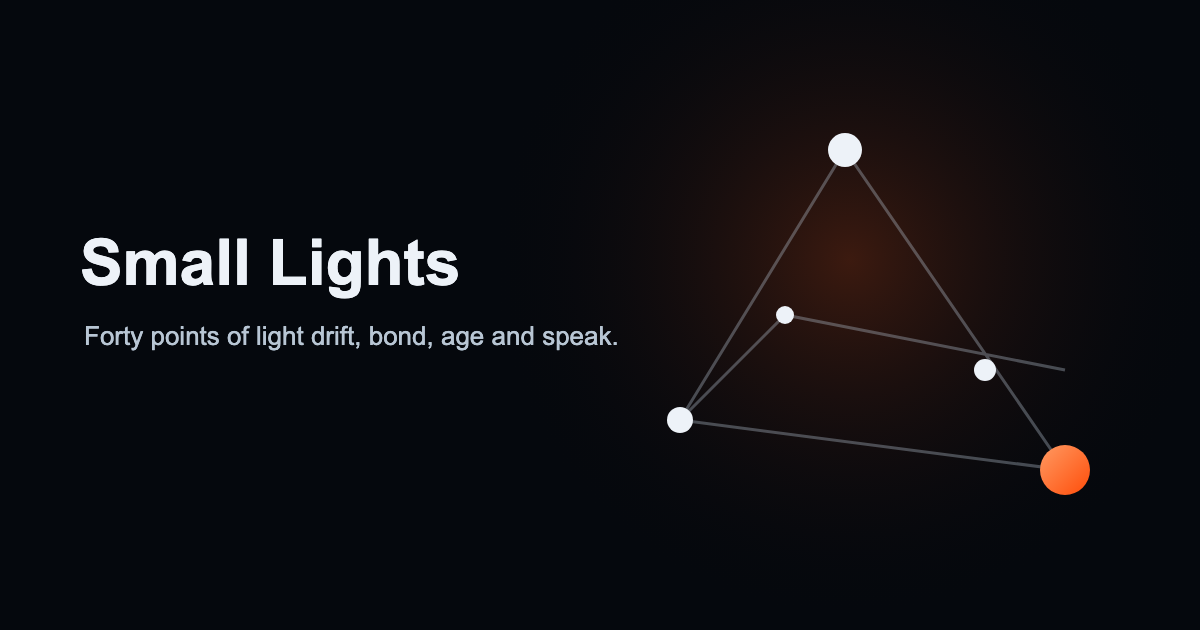
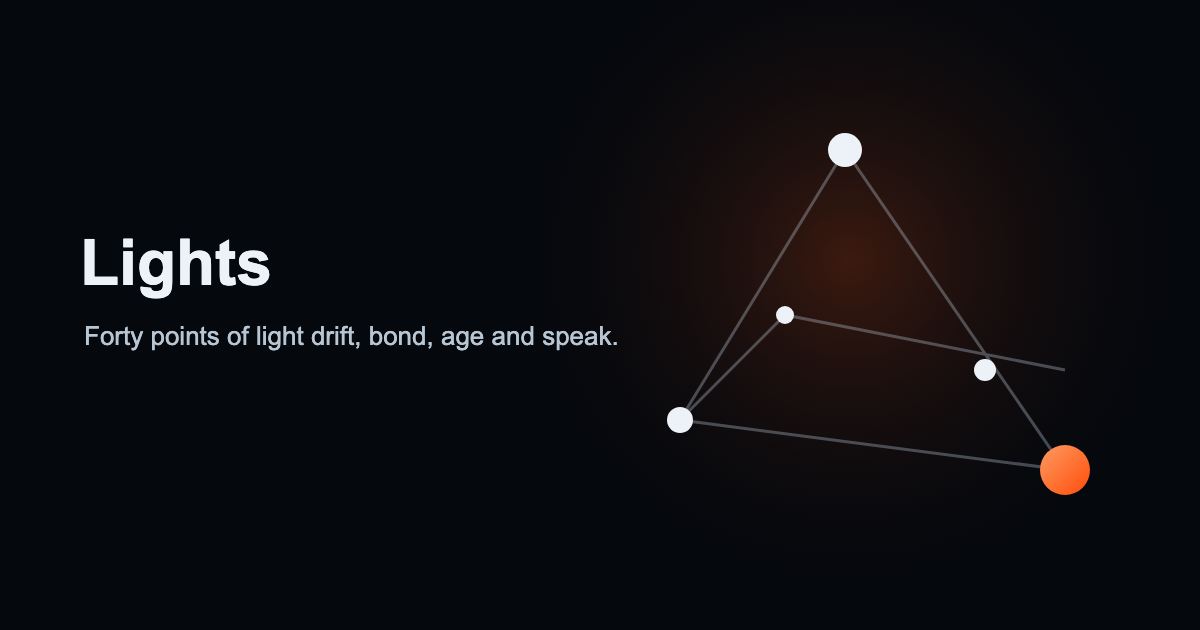
feat: the project is now called Lights
Owner decision of 2026-09-09: repository, folder and product renamed from
Small Lights to Lights; served from lights.martonpaulo.com.

Changed region(s): [[0.0617, 0.3619, 0.4008, 0.4825]]

diff --git a/index.html b/index.html
@@ -5,41 +5,41 @@
 <meta name="theme-color" content="#05080d">
 <meta name="color-scheme" content="dark">
 <meta name="author" content="Marton Paulo">
-<meta name="application-name" content="Small Lights">
+<meta name="application-name" content="Lights">
 <meta name="description" content="Forty points of light drift, bond, age and speak in a dark field.">
 <meta property="og:type" content="website">
-<meta property="og:site_name" content="Small Lights">
+<meta property="og:site_name" content="Lights">
 <meta property="og:locale" content="en">
 <link rel="canonical" href="https://lights.martonpaulo.com/">
 <meta property="og:url" content="https://lights.martonpaulo.com/">
-<meta property="og:title" content="Small Lights">
+<meta property="og:title" content="Lights">
 <meta property="og:description" content="Forty points of light drift, bond, age and speak in a dark field.">
 <meta property="og:image" content="https://lights.martonpaulo.com/social-card.png">
 <meta property="og:image:type" content="image/png">
 <meta property="og:image:width" content="1200">
 <meta property="og:image:height" content="630">
-<meta property="og:image:alt" content="The words Small Lights beside a small network of white and orange points joined by thin lines, on a dark background.">
+<meta property="og:image:alt" content="The words Lights beside a small network of white and orange points joined by thin lines, on a dark background.">
 <meta name="twitter:card" content="summary_large_image">
-<meta name="twitter:title" content="Small Lights">
+<meta name="twitter:title" content="Lights">
 <meta name="twitter:description" content="Forty points of light drift, bond, age and speak in a dark field.">
 <meta name="twitter:image" content="https://lights.martonpaulo.com/social-card.png">
-<meta name="twitter:image:alt" content="The words Small Lights beside a small network of white and orange points joined by thin lines, on a dark background.">
+<meta name="twitter:image:alt" content="The words Lights beside a small network of white and orange points joined by thin lines, on a dark background.">
 <link rel="icon" href="favicon.ico" sizes="any">
 <link rel="icon" type="image/svg+xml" href="logo.svg">
 <link rel="apple-touch-icon" href="logo.svg">
 <link rel="license" href="https://creativecommons.org/licenses/by/4.0/">
-<title>Small Lights</title>
+<title>Lights</title>
 <script type="application/ld+json">{"@context":"https://schema.org","@graph":[
-{"@type":"WebSite","@id":"https://lights.martonpaulo.com/#site","url":"https://lights.martonpaulo.com/","name":"Small Lights","inLanguage":"en","publisher":{"@id":"https://martonpaulo.com/#marton"}},
+{"@type":"WebSite","@id":"https://lights.martonpaulo.com/#site","url":"https://lights.martonpaulo.com/","name":"Lights","inLanguage":"en","publisher":{"@id":"https://martonpaulo.com/#marton"}},
 {"@type":"Person","@id":"https://martonpaulo.com/#marton","name":"Marton Paulo","url":"https://martonpaulo.com/"},
-{"@type":"VisualArtwork","@id":"https://lights.martonpaulo.com/#work","name":"Small Lights","url":"https://lights.martonpaulo.com/","isPartOf":{"@id":"https://lights.martonpaulo.com/#site"},"creator":{"@id":"https://martonpaulo.com/#marton"},"description":"Forty points of light drift, bond, age and speak in a dark field.","artform":"Interactive simulation","artMedium":"HTML canvas","inLanguage":"en","isAccessibleForFree":true,"copyrightYear":2026,"copyrightHolder":{"@id":"https://martonpaulo.com/#marton"},"license":"https://creativecommons.org/licenses/by/4.0/","image":"https://lights.martonpaulo.com/social-card.png"}]}</script>
+{"@type":"VisualArtwork","@id":"https://lights.martonpaulo.com/#work","name":"Lights","url":"https://lights.martonpaulo.com/","isPartOf":{"@id":"https://lights.martonpaulo.com/#site"},"creator":{"@id":"https://martonpaulo.com/#marton"},"description":"Forty points of light drift, bond, age and speak in a dark field.","artform":"Interactive simulation","artMedium":"HTML canvas","inLanguage":"en","isAccessibleForFree":true,"copyrightYear":2026,"copyrightHolder":{"@id":"https://martonpaulo.com/#marton"},"license":"https://creativecommons.org/licenses/by/4.0/","image":"https://lights.martonpaulo.com/social-card.png"}]}</script>
 <style>:root{--control-ink:#c6d3e2;--control-ink-hover:#ffb184;--control-surface-hover:#161d29;--sans:system-ui,Arial,sans-serif}html,body{margin:0;width:100%;height:100%;overflow:hidden;background:radial-gradient(circle at 70% 25%,#16090c 0%,#09070b 38%,#05080d 75%)}canvas{display:block;width:100vw;height:100vh}#audio-panel{position:fixed;left:24px;bottom:24px;width:206px;display:grid;grid-template-columns:62px 1fr;align-items:center;gap:10px 12px;padding:16px;border:1px solid #ffffff12;border-radius:12px;background:#080b11d9;color:#e6edf6;font:400 12px system-ui,-apple-system,'Helvetica Neue',Arial,sans-serif;-webkit-font-smoothing:antialiased;box-shadow:0 18px 46px #00000066;backdrop-filter:blur(14px)}#audio-panel input[type=range]{width:100%;margin:0;accent-color:#ff5a18;cursor:pointer}#audio-panel button{padding:7px 10px;border:1px solid #ffffff14;border-radius:7px;background:#111721;color:var(--control-ink);font:500 11px var(--sans);letter-spacing:.01em;cursor:pointer;transition:border-color .16s,color .16s,background .16s}#audio-panel button:hover{border-color:#ff5a1866;background:var(--control-surface-hover);color:var(--control-ink-hover)}#audio-panel button:active{background:#1a212d}#audio-panel button:focus-visible{outline:1px solid #ff8a4c99;outline-offset:2px}#audio-panel .withbtn{display:flex;align-items:center;gap:6px}#audio-panel #sound{width:19px;height:19px;padding:0;flex:0 0 auto;border-radius:5px;font-size:8px;line-height:1;color:#9db0c6}#audio-panel #sound:hover{color:var(--control-ink-hover)}#audio-panel .lvl{display:contents}#audio-panel .lvl>span{color:#94a5b9;font:400 11px var(--sans);letter-spacing:.01em;user-select:none}#audio-panel .lvl:hover>span{color:#dce6f2}#audio-panel input[type=range]{--fill:100%;width:100%;margin:0;height:2px;-webkit-appearance:none;appearance:none;border-radius:2px;background:linear-gradient(90deg,#e8622a 0,#e8622a var(--fill),#1e2732 var(--fill),#1e2732 100%);cursor:pointer}#audio-panel input[type=range]:hover{filter:brightness(1.2)}#audio-panel input[type=range]:focus-visible{outline:1px solid #ff8a4c66;outline-offset:6px}#audio-panel input[type=range]::-webkit-slider-thumb{-webkit-appearance:none;width:9px;height:9px;border-radius:50%;background:#f4a074;border:0;box-shadow:0 0 0 3px #080b11}#audio-panel input[type=range]::-moz-range-thumb{width:9px;height:9px;border:0;border-radius:50%;background:#f4a074;box-shadow:0 0 0 3px #080b11}#audio-panel .tele{grid-column:1/-1;display:grid;grid-template-columns:auto 1fr auto;align-items:center;gap:0 10px;margin-top:4px;padding-top:11px;border-top:1px solid #ffffff0f;color:#55657a;font:400 9.5px/1.35 ui-monospace,SFMono-Regular,Menlo,monospace;font-variant-numeric:tabular-nums}#audio-panel .tele output{color:#7c8da2;text-align:right}#audio-panel .hint{grid-column:1/-1;margin:10px 0 0;padding-top:12px;border-top:1px solid #ffffff0f;color:#5f7086;font:400 10px/1.55 var(--sans)}#audio-panel .hint b{display:block;margin-top:8px;color:#8394a8;font-weight:500;letter-spacing:.02em}#audio-panel .hint b:first-child{margin-top:0}#audio-panel .hint.gone{display:none}#audio-panel #help{width:18px;height:18px;padding:0;border-radius:50%;font:500 10px var(--sans);line-height:1;color:#55657a}#audio-panel [data-tip]:hover::after{left:0;right:auto;top:auto;bottom:calc(100% + 10px);transform:none;max-width:200px}#caption{position:fixed;left:50%;bottom:52px;box-sizing:border-box;width:min(780px,calc(100vw - 420px));display:flex;flex-direction:column;align-items:center;justify-content:flex-end;min-height:112px;transform:translateX(-50%);padding:0 20px;color:#f2f6fb;font:400 23px/1.45 Georgia,'Times New Roman',serif;text-align:center;text-wrap:balance;text-shadow:0 1px 3px #05080d,0 2px 16px #05080d,0 0 34px #05080dee;opacity:0;transition:opacity .28s;pointer-events:none}#caption .line{width:100%}#caption .line+.line{margin-top:14px;padding-top:14px;border-top:1px solid #ffffff10}#caption .line .text{display:-webkit-box;-webkit-line-clamp:3;-webkit-box-orient:vertical;overflow:hidden}#caption .credit{display:block;margin-bottom:11px;font:400 11.5px var(--sans);letter-spacing:.13em;text-transform:uppercase;opacity:.75}#caption .credit:empty{display:none}#caption.visible{opacity:1}#caption[data-tone=grief]{color:#dde6f2}#caption[data-tone=tender]{color:#ffeedd}#caption[data-tone=wonder]{color:#e9f1fc}#caption[data-tone=bright]{color:#ffecd2}#caption[data-tone=guarded]{color:#dae3ef}#caption .line strong{display:block;margin-bottom:5px;color:#ffa168;font:700 12.5px var(--sans);letter-spacing:.16em;text-transform:uppercase;text-shadow:0 1px 4px #05080d,0 0 16px #05080d}#summon-menu{position:fixed;z-index:7;display:none;flex-direction:column;min-width:132px;padding:5px;border:1px solid #ffffff14;border-radius:9px;background:#080b11f2;box-shadow:0 16px 40px #00000073;backdrop-filter:blur(14px)}#summon-menu.open{display:flex}#summon-menu button{padding:7px 11px;border:0;border-radius:6px;background:transparent;color:var(--control-ink);font:400 11.5px var(--sans);text-align:left;cursor:pointer}#summon-menu button:hover{background:var(--control-surface-hover);color:var(--control-ink-hover)}@media (max-width:1023px){#caption{top:96px;bottom:auto;left:16px;right:16px;width:auto;max-height:46vh;overflow:hidden;transform:none;justify-content:flex-start;min-height:0;padding:0;font-size:clamp(17px,4.2vw,21px)}#caption .line .text{-webkit-line-clamp:4}#caption .line+.line{margin-top:11px;padding-top:11px}#caption .credit{margin-bottom:8px}#caption .line strong{font-size:11.5px;letter-spacing:.13em}}
 @media (max-width:400px){#caption{max-height:54vh}#caption .line .text{-webkit-line-clamp:3}}
 @media (max-width:1023px) and (max-height:520px){#caption{top:78px;max-height:52vh;font-size:clamp(16px,3.4vh,19px)}#caption .line .text{-webkit-line-clamp:4}}
 @media (prefers-reduced-motion:reduce){#caption,#audio-panel button{transition:none}}.offscreen{position:absolute;width:1px;height:1px;margin:-1px;padding:0;overflow:hidden;clip-path:inset(50%);white-space:nowrap;border:0}
 #c:focus-visible{outline:2px solid var(--control-ink-hover);outline-offset:-4px}
 [data-tip]{position:relative}[data-tip]:hover::after,[data-tip]:focus-visible::after{content:attr(data-tip);position:absolute;left:calc(100% + 12px);top:50%;transform:translateY(-50%);z-index:9;width:max-content;max-width:210px;padding:7px 10px;border:1px solid #ff8a4c55;border-radius:9px;background:#09090ef2;color:#edf2f8;font:400 11px/1.35 Arial,sans-serif;letter-spacing:normal;text-transform:none;text-align:left;pointer-events:none;backdrop-filter:blur(8px)}</style>
-<h1 class="offscreen">Small Lights</h1>
+<h1 class="offscreen">Lights</h1>
 <canvas id="c" tabindex="0" role="application" aria-label="Field of small lights. Arrow keys move the cursor, Enter selects, S summons, B detonates." aria-describedby="field-status"></canvas>
 <p id="field-status" class="offscreen" role="status" aria-live="polite"></p>
 <div id="audio-panel" aria-label="Controls"><div class="lvl"><span class="withbtn"><button id="sound" data-tip="Play or pause the music track" type="button" aria-label="Play or pause music">▶</button>Music</span><input id="volume" data-tip="Volume of the ambient track" type="range" min="0" max="1" step=".01" value="1" aria-label="Music volume"></div><label class="lvl"><span>Voices</span><input id="voices-volume" data-tip="Volume of the lines a node speaks when selected" type="range" min="0" max="1" step=".01" value="1" aria-label="Voices volume"></label><label class="lvl"><span>Effects</span><input id="sfx-volume" data-tip="Volume of node tones, portals, comets and blasts" type="range" min="0" max="1" step=".01" value="1" aria-label="Effects volume"></label><div class="tele"><span>Kinetic energy</span><output id="kinetic-energy">0.00</output><button id="help" data-tip="Show the guide" type="button" aria-label="Show or hide the guide">?</button></div><p class="hint gone" id="hint"><b>Click a node</b>Selects it and lets it speak.<b>Click empty space</b>Detonates there. Click again to stack.<b>Right-click</b>Summons a comet, portal or attractor there.<b>Drag a summon</b>Moves it. Escape clears the selection.<b>A light's trait</b>Sits beside its age when you select one.<b>Keyboard</b>Tab to the field, then arrows to move the cursor, Enter to select, Shift and Enter to hold a second, Shift and arrows to move, S to summon, B to detonate.</p></div>
@@ -72,7 +72,7 @@ music.addEventListener('play',paintMusicButton);music.addEventListener('pause',p
 // Pressing the button is itself the choice, so the shared first-gesture start stands aside.
 soundButton.addEventListener('pointerdown',()=>{musicChosen=true});
 soundButton.addEventListener('click',toggleMusic);volume.addEventListener('input',()=>{music.volume=Number(volume.value)*MUSIC_SCALE;if(music.volume>0)music.muted=false});sfxVolume.addEventListener('input',()=>{if(sfxGain)sfxGain.gain.setTargetAtTime(Number(sfxVolume.value)*SFX_SCALE,toneContext.currentTime,.02)});voicesVolume.addEventListener('input',()=>{if(Number(voicesVolume.value)===0)cancelSpeech()});
-const SETTINGS_KEY='small-lights:settings',SLIDERS=[volume,voicesVolume,sfxVolume];
+const SETTINGS_KEY='lights:settings',SLIDERS=[volume,voicesVolume,sfxVolume];
 function applyLevels(){music.volume=Number(volume.value)*MUSIC_SCALE;if(sfxGain)sfxGain.gain.setTargetAtTime(Number(sfxVolume.value)*SFX_SCALE,toneContext.currentTime,.02);SLIDERS.forEach(input=>input.style.setProperty('--fill',`${Number(input.value)*100}%`))}
 function saveSettings(){try{localStorage.setItem(SETTINGS_KEY,JSON.stringify({music:volume.value,voices:voicesVolume.value,sfx:sfxVolume.value}))}catch(error){}}
 function loadSettings(){try{let saved=JSON.parse(localStorage.getItem(SETTINGS_KEY)||'null');if(saved){if(saved.music!=null)volume.value=saved.music;if(saved.voices!=null)voicesVolume.value=saved.voices;if(saved.sfx!=null)sfxVolume.value=saved.sfx;}}catch(error){}applyLevels()}

diff --git a/404.html b/404.html
@@ -7,7 +7,7 @@
 <meta name="robots" content="noindex">
 <link rel="icon" href="favicon.ico" sizes="any">
 <link rel="icon" type="image/svg+xml" href="logo.svg">
-<title>Not found · Small Lights</title>
+<title>Not found · Lights</title>
 <style>html,body{margin:0;width:100%;height:100%;background:radial-gradient(circle at 70% 25%,#16090c 0%,#09070b 38%,#05080d 75%)}body{display:flex;align-items:center;justify-content:center;color:#f2f6fb;font:400 23px/1.45 Georgia,'Times New Roman',serif;text-align:center;text-shadow:0 1px 3px #05080d,0 2px 16px #05080d}main{padding:0 20px;max-width:560px}h1{margin:0 0 14px;color:#ffa168;font:700 12.5px system-ui,Arial,sans-serif;letter-spacing:.16em;text-transform:uppercase}p{margin:0}a{display:inline-block;margin-top:24px;padding:7px 12px;border:1px solid #ffffff14;border-radius:7px;background:#111721;color:#c6d3e2;font:500 11px system-ui,Arial,sans-serif;text-decoration:none}a:hover{border-color:#ff5a1866;background:#161d29;color:#ffb184}</style>
 <main>
 <h1>Not found</h1>

diff --git a/AGENTS.md b/AGENTS.md
@@ -2,10 +2,10 @@
 
 ## Project identity and policy
 
-- Project name: `small-lights`
-- Public name: `Small Lights`
+- Project name: `lights`
+- Public name: `Lights`
 - Benefit-first description: A dark field where forty points of light drift, bond, age and speak, so watching it rewards attention instead of asking for it.
-- Repository: `martonpaulo/small-lights` (public)
+- Repository: `martonpaulo/lights` (public)
 - Public identifiers: none. The product is a single static page served at its landing page URL; there is no package, module, or bundle identifier.
 - Landing page: https://lights.martonpaulo.com/ — GitHub Pages, served from `main` at the repository root. The landing page is the product; there is no separate marketing site.
 - License: `CC-BY-4.0`

diff --git a/NOTICE.md b/NOTICE.md
@@ -4,7 +4,7 @@
 
 Copyright 2026 Marton Paulo.
 
-Small Lights is licensed under [CC BY 4.0](https://creativecommons.org/licenses/by/4.0/).
+Lights is licensed under [CC BY 4.0](https://creativecommons.org/licenses/by/4.0/).
 You may share and adapt it, including commercially, provided you give appropriate credit, link to
 the license, and indicate whether changes were made.
 

diff --git a/README.md b/README.md
@@ -1,4 +1,4 @@
-# Small Lights
+# Lights
 
 Forty points of light drift, bond, age and speak in a dark field.
 

diff --git a/docs/product.md b/docs/product.md
@@ -1,4 +1,4 @@
-# Small Lights — product definition
+# Lights — product definition
 
 ## What it is
 
